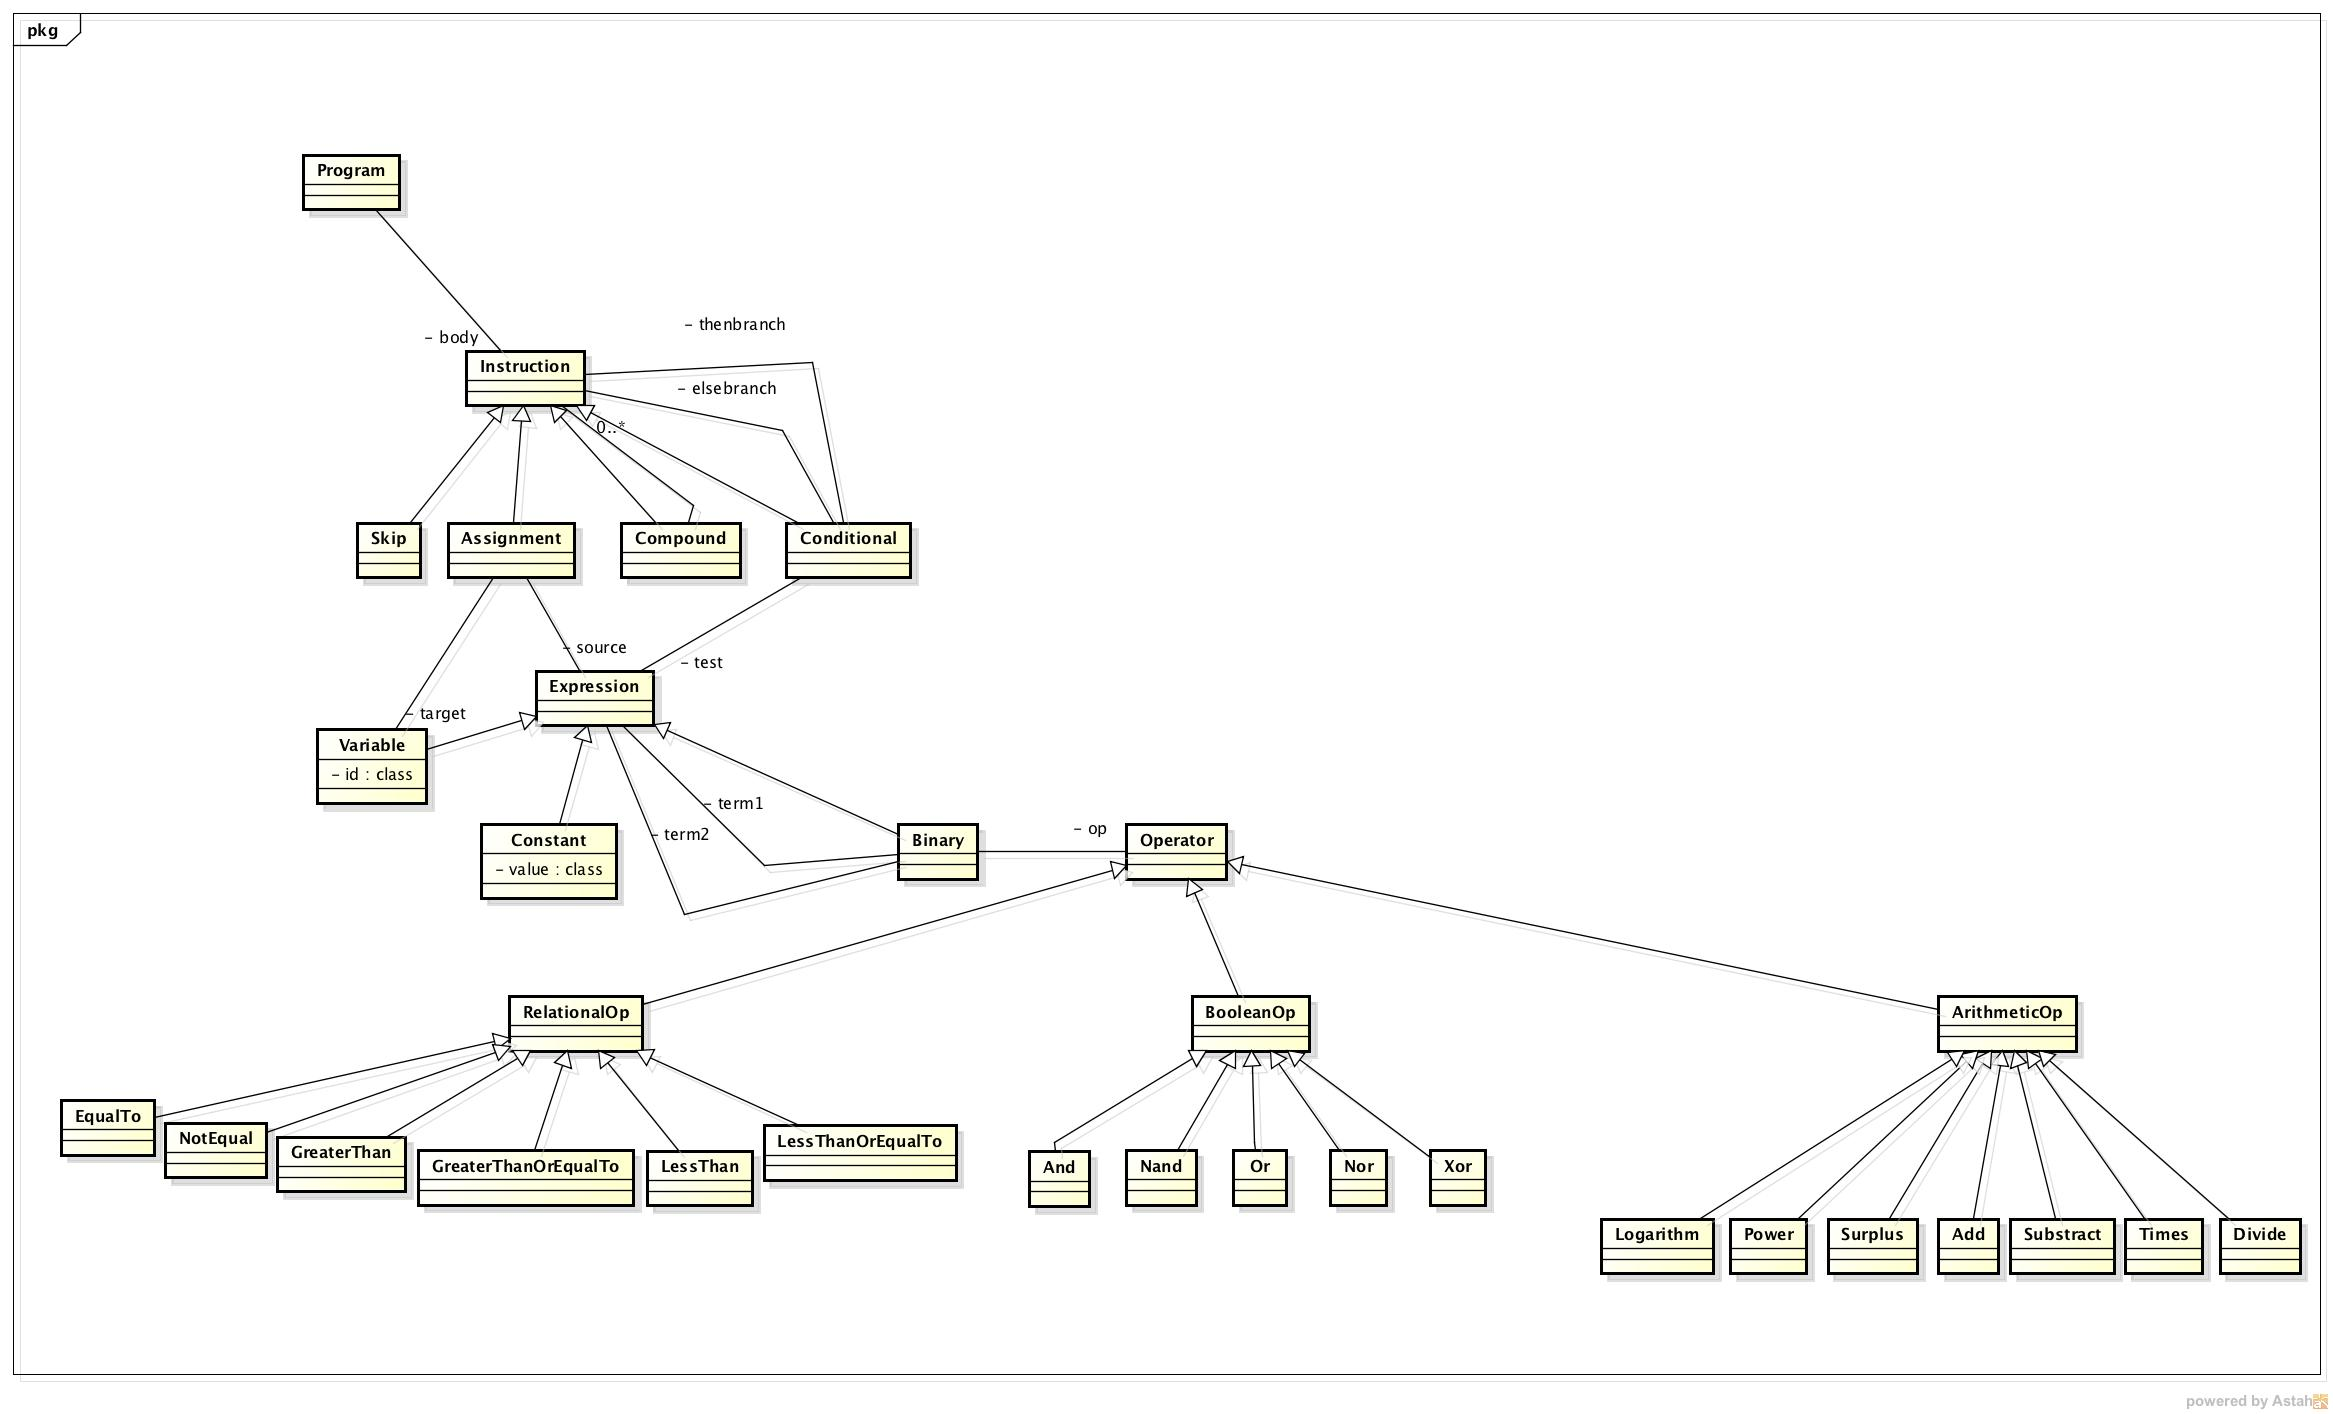
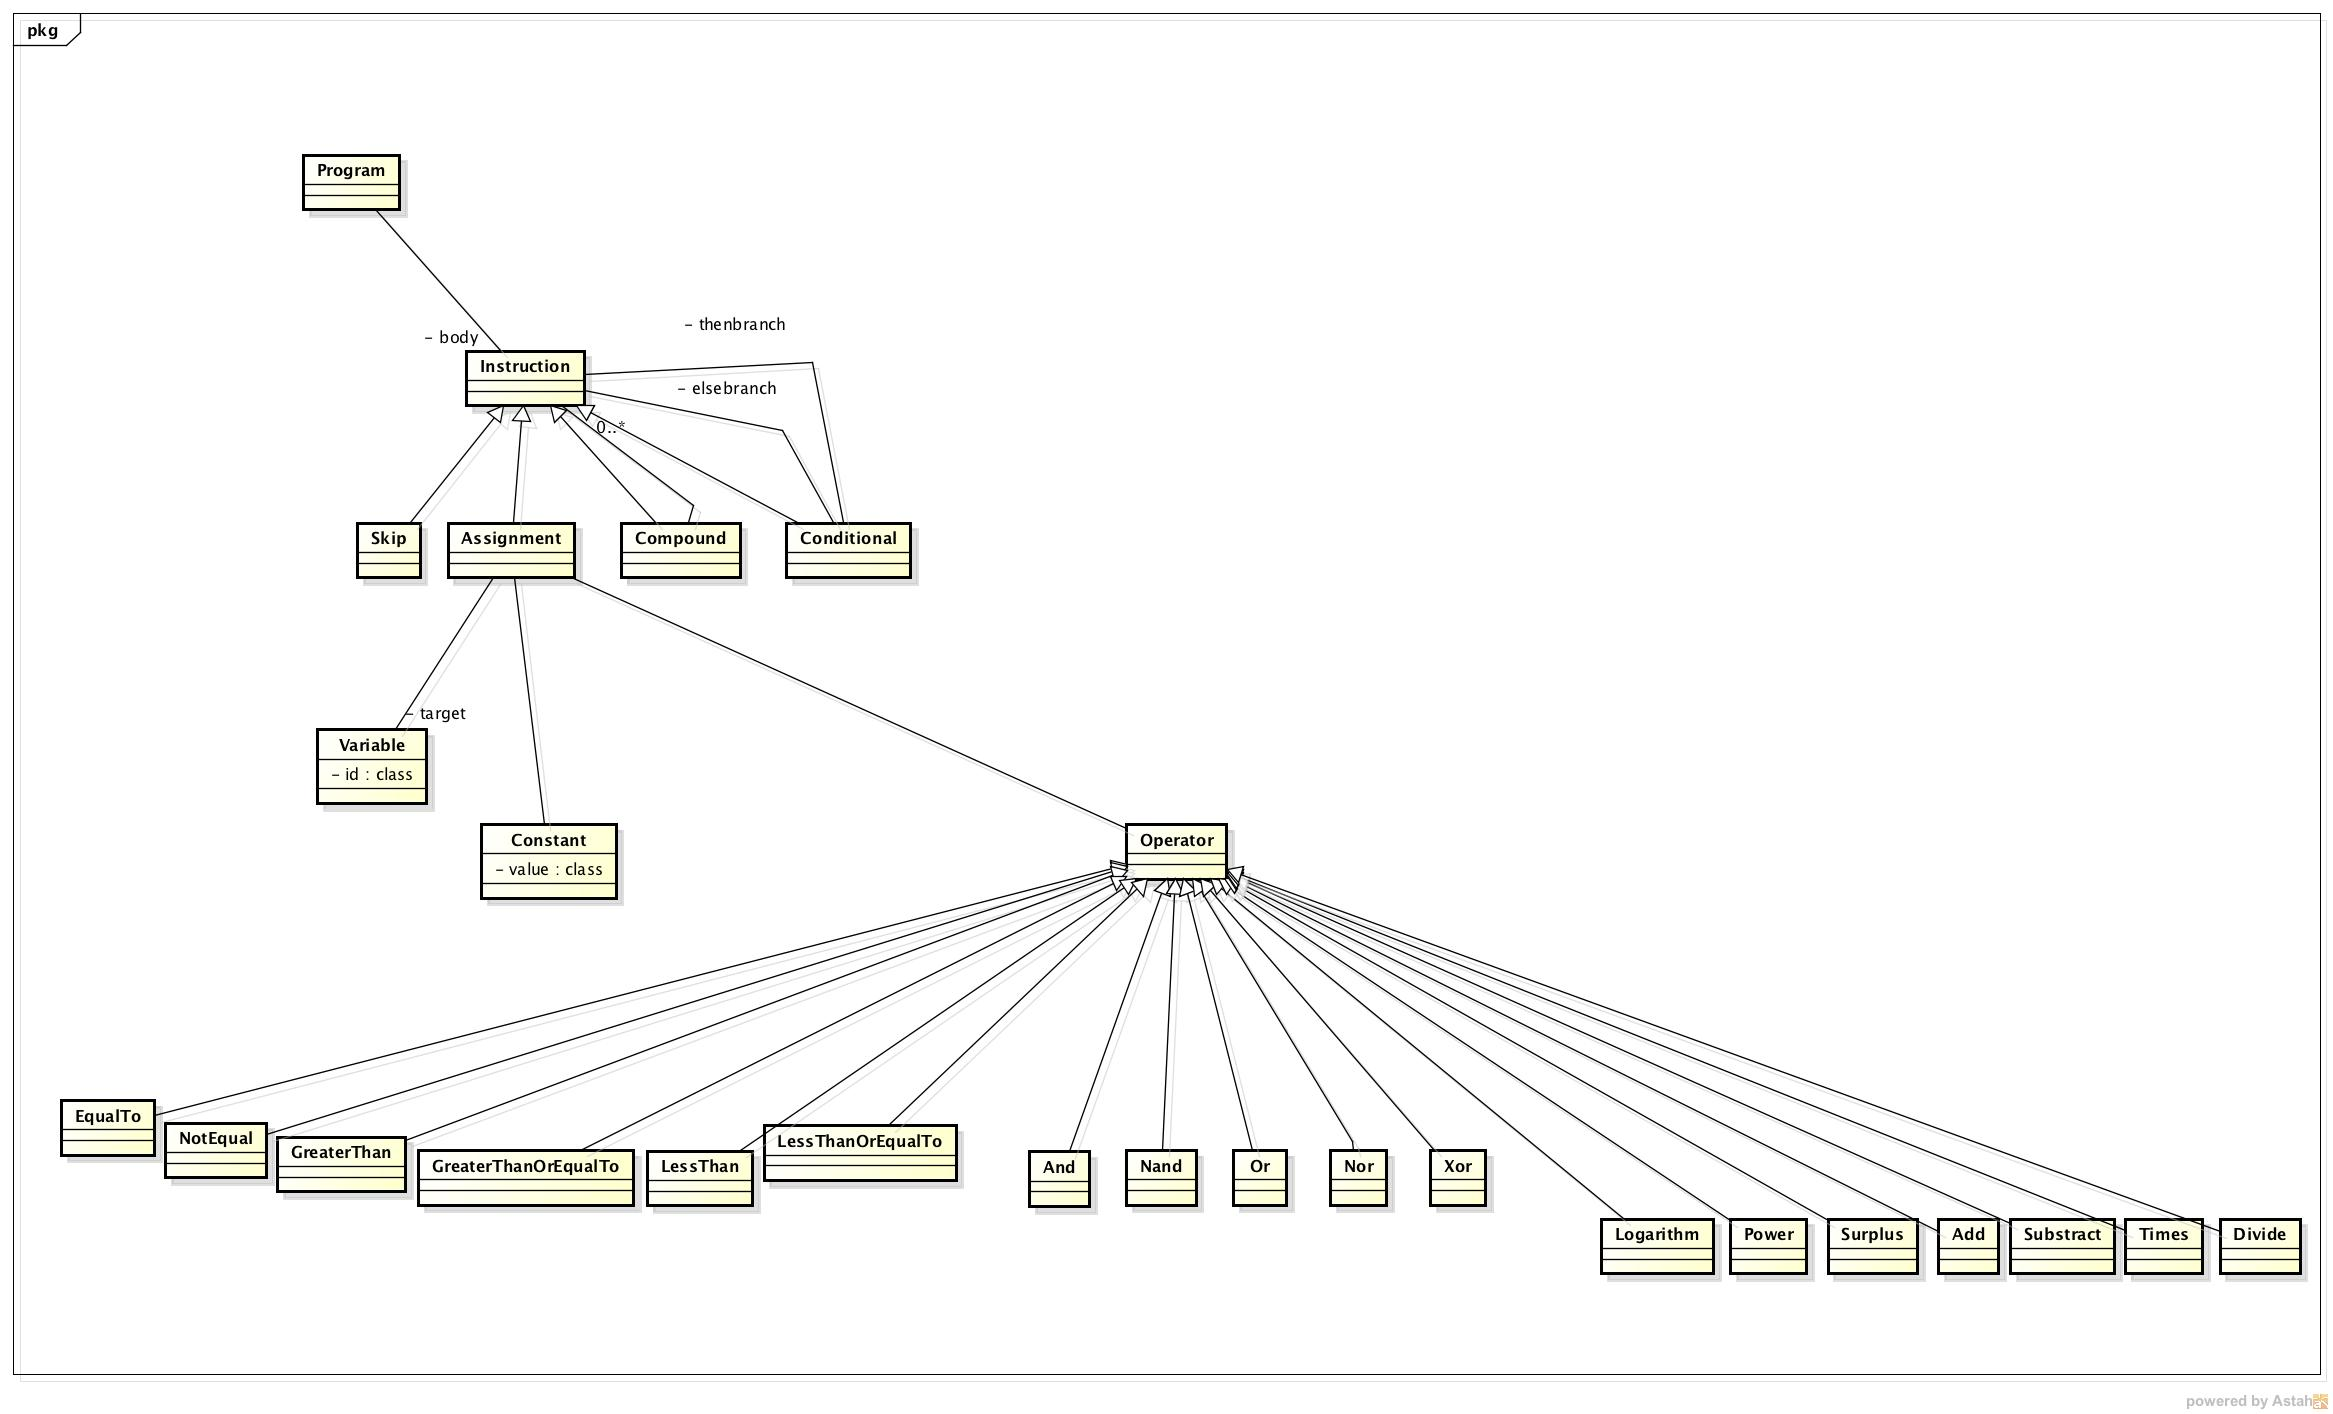
modify class

diff --git a/exec.rb b/exec.rb
@@ -22,15 +22,15 @@ num10 = Constant.new(10)
 operator = Array.new
 
 # 足す
-add1 = Plus.new(num1, num2)
-add2 = Plus.new(num1, num3)
-add3 = Plus.new(add1, add2)
+add1 = Add.new(num1, num2)
+add2 = Add.new(num1, num3)
+add3 = Add.new(add1, add2)
 
 # 掛ける
 times1 = Times.new(num2, num3)
 
 # 引く
-minus1 = Minus.new(num3, num1)
+minus1 = Substract.new(num3, num1)
 
 # 割る
 divide1 = Divide.new(num4, num2)
